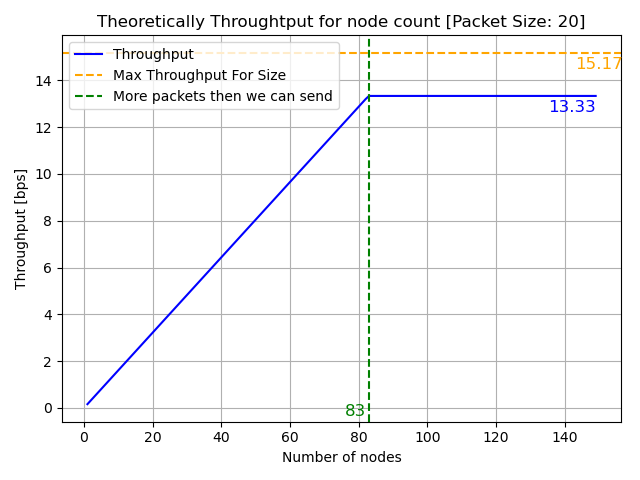
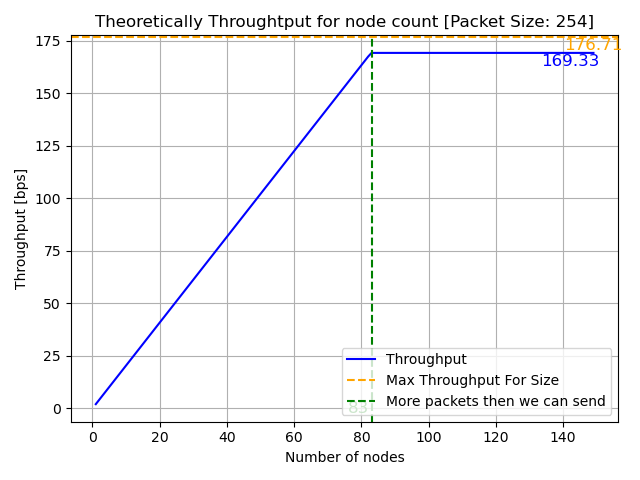
Fixed the throughput max in plot

diff --git a/PySim/ThroughputSim.py b/PySim/ThroughputSim.py
@@ -9,8 +9,9 @@ def sim(packet_size: int) -> list[int, float]:
 
     time_of_period = broadcast + (guard_time + packet_airtime) * time_slots
 
-    max_throughput_for_packet_size = (
-        (header_size + packet_size) / packet_airtime) * 8
+    shortest_airtime = (0.401) + (packet_size * 8) / 183.1 # preamble + data rate
+
+    max_throughput_for_packet_size = (packet_size * 8 / shortest_airtime)
 
     #print(f"{max_throughput_for_packet_size=}")
 
@@ -72,13 +73,13 @@ def sim(packet_size: int) -> list[int, float]:
     # ax.axvline(packetgen_break, linestyle="dashed",
     #            label="More packets then we can send", color="green")
 
-    # ax.text(max_number_of_nodes - 0.15, max_throughput_for_packet_size - 0.5,
+    # ax.text(max_number_of_nodes - 1, max_throughput_for_packet_size - 4,
     #         f"{max_throughput_for_packet_size:.2f}", color='orange',
     #         fontsize=12, ha='center', va='center')
     # ax.text(packetgen_break - 4, -0.15,
     #         str(packetgen_break), color='green',
     #         fontsize=12, ha='center', va='center')
-    # ax.text(max_number_of_nodes - 8, throughput_list[-1] - 0.5,
+    # ax.text(max_number_of_nodes - 8, throughput_list[-1] - 4,
     #         f"{throughput_list[-1]:.2f}", color="blue",
     #         fontsize=12, ha='center', va='center')
 
@@ -99,4 +100,4 @@ def sim(packet_size: int) -> list[int, float]:
     return x, y
 
 if __name__ == "__main__":
-    sim(20)
+    sim(254)
